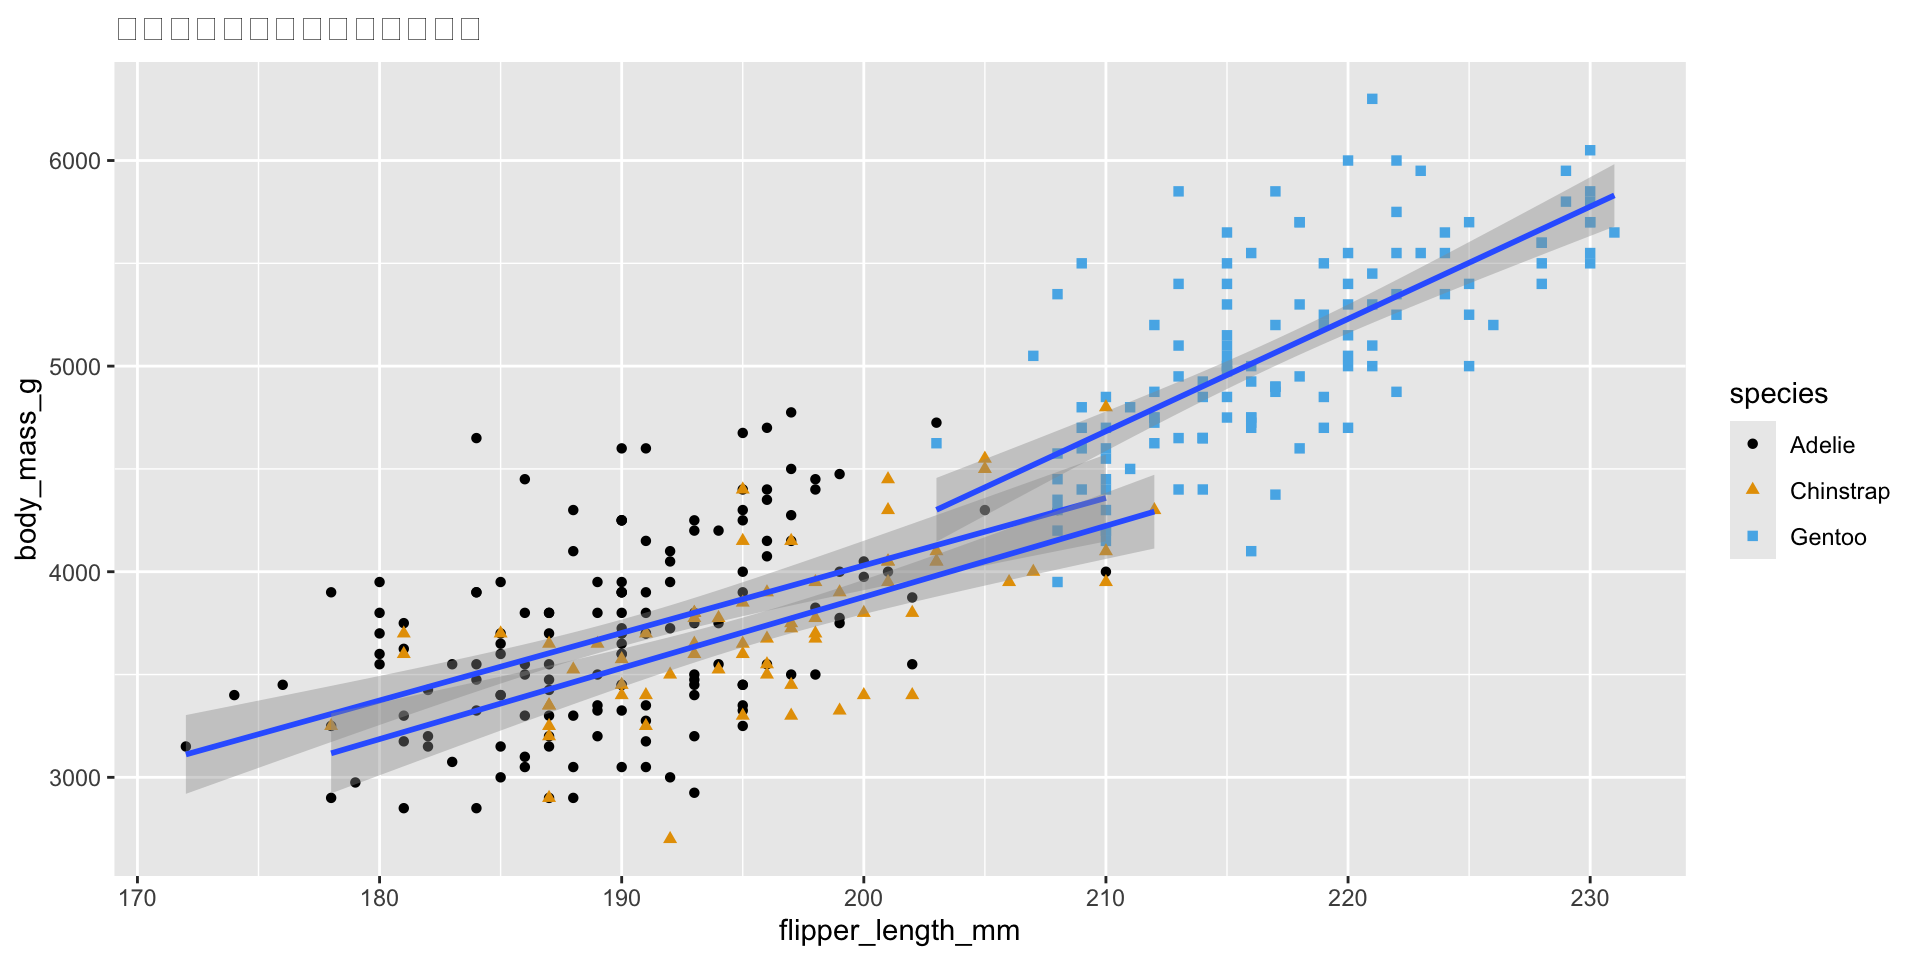
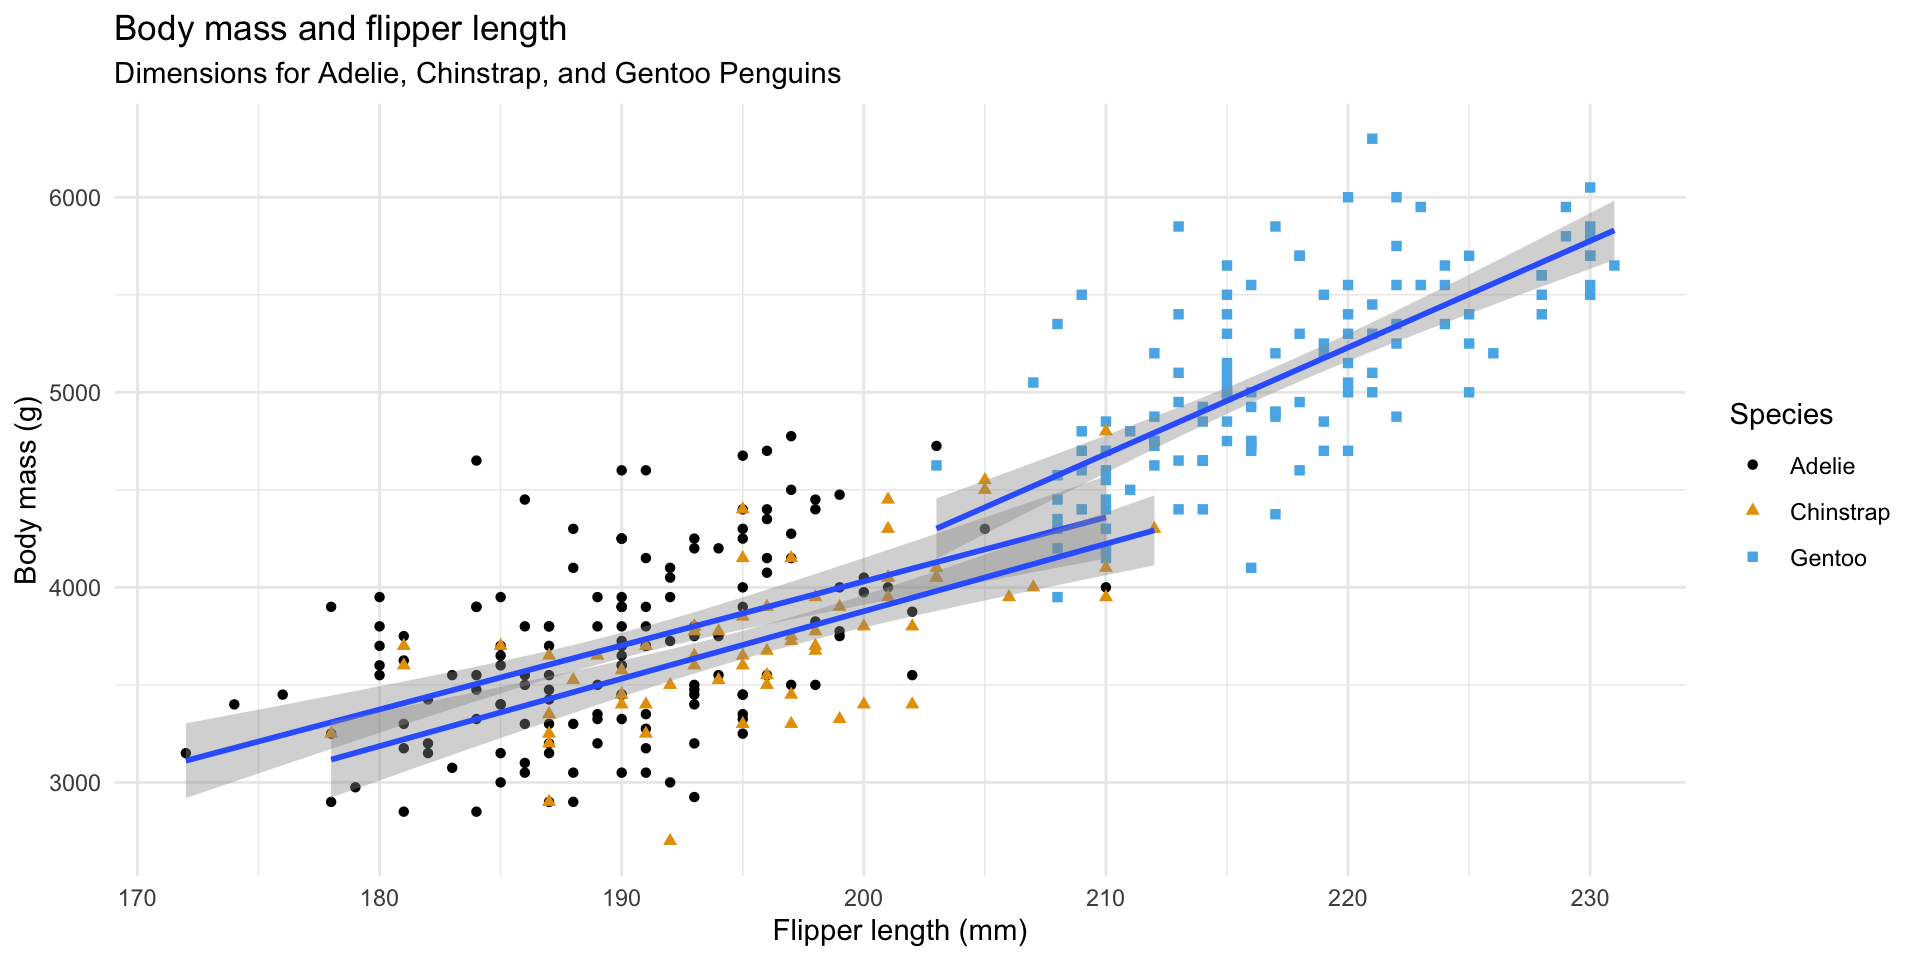
Built site for gh-pages

diff --git a/day7/index.html b/day7/index.html
@@ -810,18 +810,13 @@
 <div class="code-copy-outer-scaffold"><div class="sourceCode cell-code" id="cb18"><pre class="sourceCode numberSource r number-lines code-with-copy"><code class="sourceCode r"><span id="cb18-1"><a></a><span class="fu">ggsave</span>(<span class="st">"penguins.jpg"</span>)</span></code></pre></div><button title="Copy to Clipboard" class="code-copy-button"><i class="bi"></i></button></div>
 </div>
 </section>
-<section id="文字化けを防ぐ方法" class="slide level2">
-<h2>文字化けを防ぐ方法</h2>
-<ul>
-<li>ggplot2のデフォルトフォントでは日本語が文字化けする可能性があります</li>
-</ul>
-</section>
 <section class="slide level2">
 
+<h3 id="theme_でグラフ全体のデザインを整える"><code>theme_()</code>でグラフ全体のデザインを整える</h3>
 <div class="medsmall">
 <div class="cell columns column-output-location">
 <div class="column">
-<div class="code-copy-outer-scaffold"><div class="sourceCode cell-code" id="cb19" data-code-line-numbers="|11-13"><pre class="sourceCode numberSource r number-lines code-with-copy"><code class="sourceCode r"><span id="cb19-1"><a></a><span class="fu">ggplot</span>(</span>
+<div class="code-copy-outer-scaffold"><div class="sourceCode cell-code" id="cb19" data-code-line-numbers="|20"><pre class="sourceCode numberSource r number-lines code-with-copy"><code class="sourceCode r"><span id="cb19-1"><a></a><span class="fu">ggplot</span>(</span>
 <span id="cb19-2"><a></a>  <span class="at">data =</span> penguins,</span>
 <span id="cb19-3"><a></a>  <span class="at">mapping =</span> <span class="fu">aes</span>(</span>
 <span id="cb19-4"><a></a>    <span class="at">x =</span> flipper_length_mm,</span>
@@ -832,109 +827,20 @@
 <span id="cb19-9"><a></a>  <span class="fu">geom_point</span>(<span class="fu">aes</span>(<span class="at">color =</span> species)) <span class="sc">+</span></span>
 <span id="cb19-10"><a></a>  <span class="fu">geom_smooth</span>(<span class="at">method =</span> <span class="st">"lm"</span>) <span class="sc">+</span></span>
 <span id="cb19-11"><a></a>  <span class="fu">labs</span>(</span>
-<span id="cb19-12"><a></a>    <span class="at">title =</span> <span class="st">"ペンギンの体重および翼の長さ"</span></span>
-<span id="cb19-13"><a></a>  ) <span class="sc">+</span></span>
-<span id="cb19-14"><a></a>  <span class="fu">scale_color_colorblind</span>()</span></code></pre></div><button title="Copy to Clipboard" class="code-copy-button"><i class="bi"></i></button></div>
+<span id="cb19-12"><a></a>    <span class="at">title =</span> <span class="st">"Body mass and flipper length"</span>,</span>
+<span id="cb19-13"><a></a>    <span class="at">subtitle =</span> <span class="st">"Dimensions for Adelie, Chinstrap, and Gentoo Penguins"</span>,</span>
+<span id="cb19-14"><a></a>    <span class="at">x =</span> <span class="st">"Flipper length (mm)"</span>,</span>
+<span id="cb19-15"><a></a>    <span class="at">y =</span> <span class="st">"Body mass (g)"</span>,</span>
+<span id="cb19-16"><a></a>    <span class="at">color =</span> <span class="st">"Species"</span>,</span>
+<span id="cb19-17"><a></a>    <span class="at">shape =</span> <span class="st">"Species"</span></span>
+<span id="cb19-18"><a></a>  ) <span class="sc">+</span></span>
+<span id="cb19-19"><a></a>  <span class="fu">scale_color_colorblind</span>() <span class="sc">+</span></span>
+<span id="cb19-20"><a></a>  <span class="fu">theme_minimal</span>()</span></code></pre></div><button title="Copy to Clipboard" class="code-copy-button"><i class="bi"></i></button></div>
 </div><div class="column">
 <div class="cell-output-display">
 <div>
 <figure>
 <p><img data-src="index_files/figure-revealjs/unnamed-chunk-23-1.png" width="960"></p>
-</figure>
-</div>
-</div>
-</div></div>
-</div>
-</section>
-<section id="showtextで日本語フォントを利用する" class="slide level2">
-<h2><code>showtext</code>で日本語フォントを利用する</h2>
-<ul>
-<li><code>showtext</code>パッケージを使用するとカスタムフォントが利用可能になります</li>
-<li><code>tidyverse</code>には含まれていないので、インストールが必要です</li>
-</ul>
-<div class="cell">
-<div class="code-copy-outer-scaffold"><div class="sourceCode cell-code" id="cb20"><pre class="sourceCode numberSource r number-lines code-with-copy"><code class="sourceCode r"><span id="cb20-1"><a></a><span class="fu">install.packages</span>(<span class="st">"showtext"</span>)</span>
-<span id="cb20-2"><a></a></span>
-<span id="cb20-3"><a></a><span class="fu">library</span>(showtext)</span></code></pre></div><button title="Copy to Clipboard" class="code-copy-button"><i class="bi"></i></button></div>
-</div>
-</section>
-<section id="showtextで日本語フォントを利用する-1" class="slide level2">
-<h2><code>showtext</code>で日本語フォントを利用する</h2>
-<ul>
-<li><code>ggplot()</code>の前にフォント設定を行います：</li>
-</ul>
-<div class="cell">
-<div class="code-copy-outer-scaffold"><div class="sourceCode cell-code" id="cb21"><pre class="sourceCode numberSource r number-lines code-with-copy"><code class="sourceCode r"><span id="cb21-1"><a></a><span class="co"># Add a Japanese font</span></span>
-<span id="cb21-2"><a></a><span class="fu">font_add_google</span>(<span class="st">"Noto Sans JP"</span>, <span class="st">"noto"</span>)</span>
-<span id="cb21-3"><a></a><span class="fu">showtext_auto</span>()</span></code></pre></div><button title="Copy to Clipboard" class="code-copy-button"><i class="bi"></i></button></div>
-</div>
-</section>
-<section class="slide level2">
-
-<h3 id="theme_でフォントを指定する"><code>theme_()</code>でフォントを指定する</h3>
-<div class="medsmall">
-<div class="cell columns column-output-location">
-<div class="column">
-<div class="code-copy-outer-scaffold"><div class="sourceCode cell-code" id="cb22" data-code-line-numbers="|1-2|18"><pre class="sourceCode numberSource r number-lines code-with-copy"><code class="sourceCode r"><span id="cb22-1"><a></a><span class="fu">font_add_google</span>(<span class="st">"Noto Sans JP"</span>, <span class="st">"noto"</span>)</span>
-<span id="cb22-2"><a></a><span class="fu">showtext_auto</span>()</span>
-<span id="cb22-3"><a></a></span>
-<span id="cb22-4"><a></a><span class="fu">ggplot</span>(</span>
-<span id="cb22-5"><a></a>  <span class="at">data =</span> penguins,</span>
-<span id="cb22-6"><a></a>  <span class="at">mapping =</span> <span class="fu">aes</span>(</span>
-<span id="cb22-7"><a></a>    <span class="at">x =</span> flipper_length_mm,</span>
-<span id="cb22-8"><a></a>    <span class="at">y =</span> body_mass_g,</span>
-<span id="cb22-9"><a></a>    <span class="at">shape =</span> species</span>
-<span id="cb22-10"><a></a>  )</span>
-<span id="cb22-11"><a></a>) <span class="sc">+</span></span>
-<span id="cb22-12"><a></a>  <span class="fu">geom_point</span>(<span class="fu">aes</span>(<span class="at">color =</span> species)) <span class="sc">+</span></span>
-<span id="cb22-13"><a></a>  <span class="fu">geom_smooth</span>(<span class="at">method =</span> <span class="st">"lm"</span>) <span class="sc">+</span></span>
-<span id="cb22-14"><a></a>  <span class="fu">labs</span>(</span>
-<span id="cb22-15"><a></a>    <span class="at">title =</span> <span class="st">"ペンギンの体重および翼の長さ"</span></span>
-<span id="cb22-16"><a></a>  ) <span class="sc">+</span></span>
-<span id="cb22-17"><a></a>  <span class="fu">scale_color_colorblind</span>() <span class="sc">+</span></span>
-<span id="cb22-18"><a></a>  <span class="fu">theme_grey</span>(<span class="at">base_family =</span> <span class="st">"noto"</span>)</span></code></pre></div><button title="Copy to Clipboard" class="code-copy-button"><i class="bi"></i></button></div>
-</div><div class="column">
-<div class="cell-output-display">
-<div>
-<figure>
-<p><img data-src="index_files/figure-revealjs/unnamed-chunk-26-1.png" width="960"></p>
-</figure>
-</div>
-</div>
-</div></div>
-</div>
-</section>
-<section class="slide level2">
-
-<h3 id="theme_でグラフ全体のデザインを整える"><code>theme_()</code>でグラフ全体のデザインを整える</h3>
-<div class="medsmall">
-<div class="cell columns column-output-location">
-<div class="column">
-<div class="code-copy-outer-scaffold"><div class="sourceCode cell-code" id="cb23" data-code-line-numbers="|20"><pre class="sourceCode numberSource r number-lines code-with-copy"><code class="sourceCode r"><span id="cb23-1"><a></a><span class="fu">ggplot</span>(</span>
-<span id="cb23-2"><a></a>  <span class="at">data =</span> penguins,</span>
-<span id="cb23-3"><a></a>  <span class="at">mapping =</span> <span class="fu">aes</span>(</span>
-<span id="cb23-4"><a></a>    <span class="at">x =</span> flipper_length_mm,</span>
-<span id="cb23-5"><a></a>    <span class="at">y =</span> body_mass_g,</span>
-<span id="cb23-6"><a></a>    <span class="at">shape =</span> species</span>
-<span id="cb23-7"><a></a>  )</span>
-<span id="cb23-8"><a></a>) <span class="sc">+</span></span>
-<span id="cb23-9"><a></a>  <span class="fu">geom_point</span>(<span class="fu">aes</span>(<span class="at">color =</span> species)) <span class="sc">+</span></span>
-<span id="cb23-10"><a></a>  <span class="fu">geom_smooth</span>(<span class="at">method =</span> <span class="st">"lm"</span>) <span class="sc">+</span></span>
-<span id="cb23-11"><a></a>  <span class="fu">labs</span>(</span>
-<span id="cb23-12"><a></a>    <span class="at">title =</span> <span class="st">"Body mass and flipper length"</span>,</span>
-<span id="cb23-13"><a></a>    <span class="at">subtitle =</span> <span class="st">"Dimensions for Adelie, Chinstrap, and Gentoo Penguins"</span>,</span>
-<span id="cb23-14"><a></a>    <span class="at">x =</span> <span class="st">"Flipper length (mm)"</span>,</span>
-<span id="cb23-15"><a></a>    <span class="at">y =</span> <span class="st">"Body mass (g)"</span>,</span>
-<span id="cb23-16"><a></a>    <span class="at">color =</span> <span class="st">"Species"</span>,</span>
-<span id="cb23-17"><a></a>    <span class="at">shape =</span> <span class="st">"Species"</span></span>
-<span id="cb23-18"><a></a>  ) <span class="sc">+</span></span>
-<span id="cb23-19"><a></a>  <span class="fu">scale_color_colorblind</span>() <span class="sc">+</span></span>
-<span id="cb23-20"><a></a>  <span class="fu">theme_minimal</span>()</span></code></pre></div><button title="Copy to Clipboard" class="code-copy-button"><i class="bi"></i></button></div>
-</div><div class="column">
-<div class="cell-output-display">
-<div>
-<figure>
-<p><img data-src="index_files/figure-revealjs/unnamed-chunk-27-1.png" width="960"></p>
 </figure>
 </div>
 </div>
